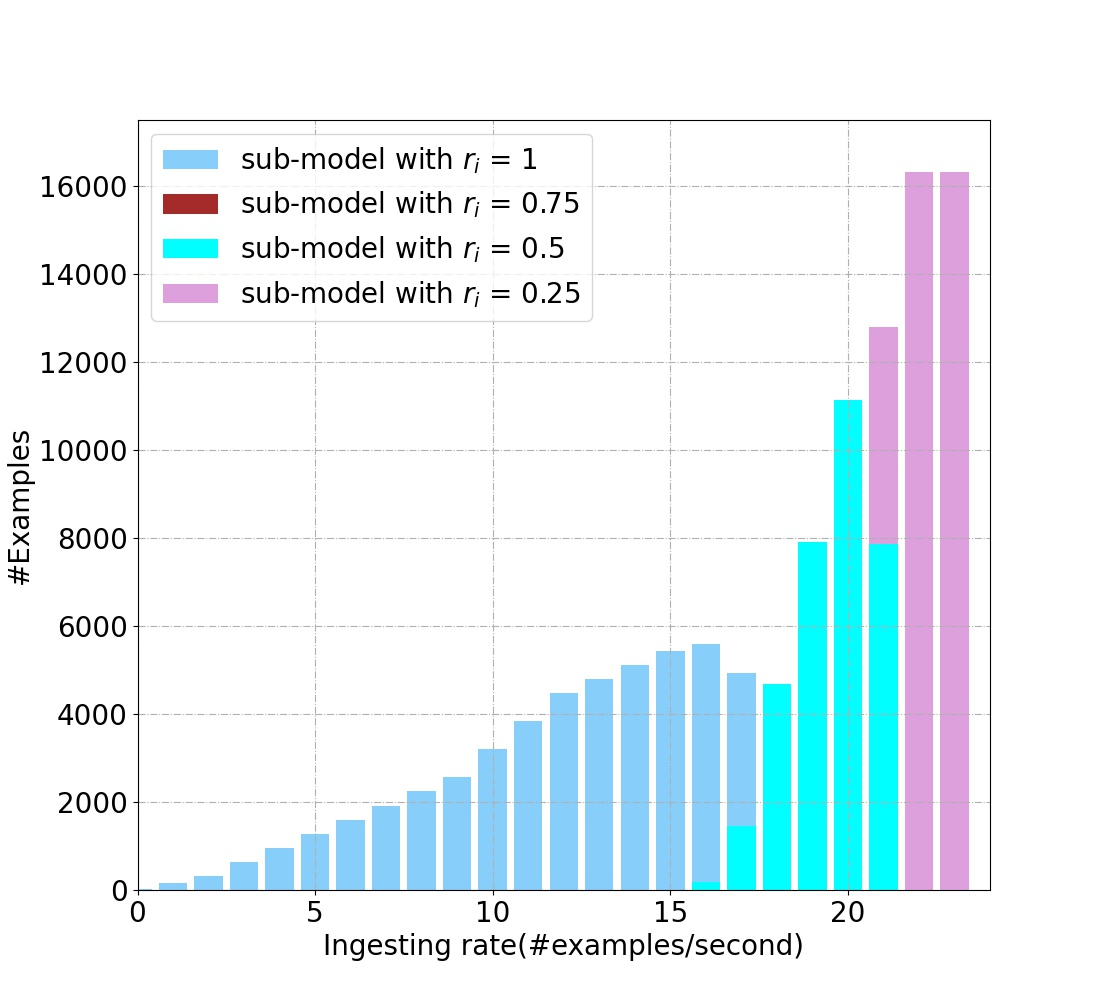
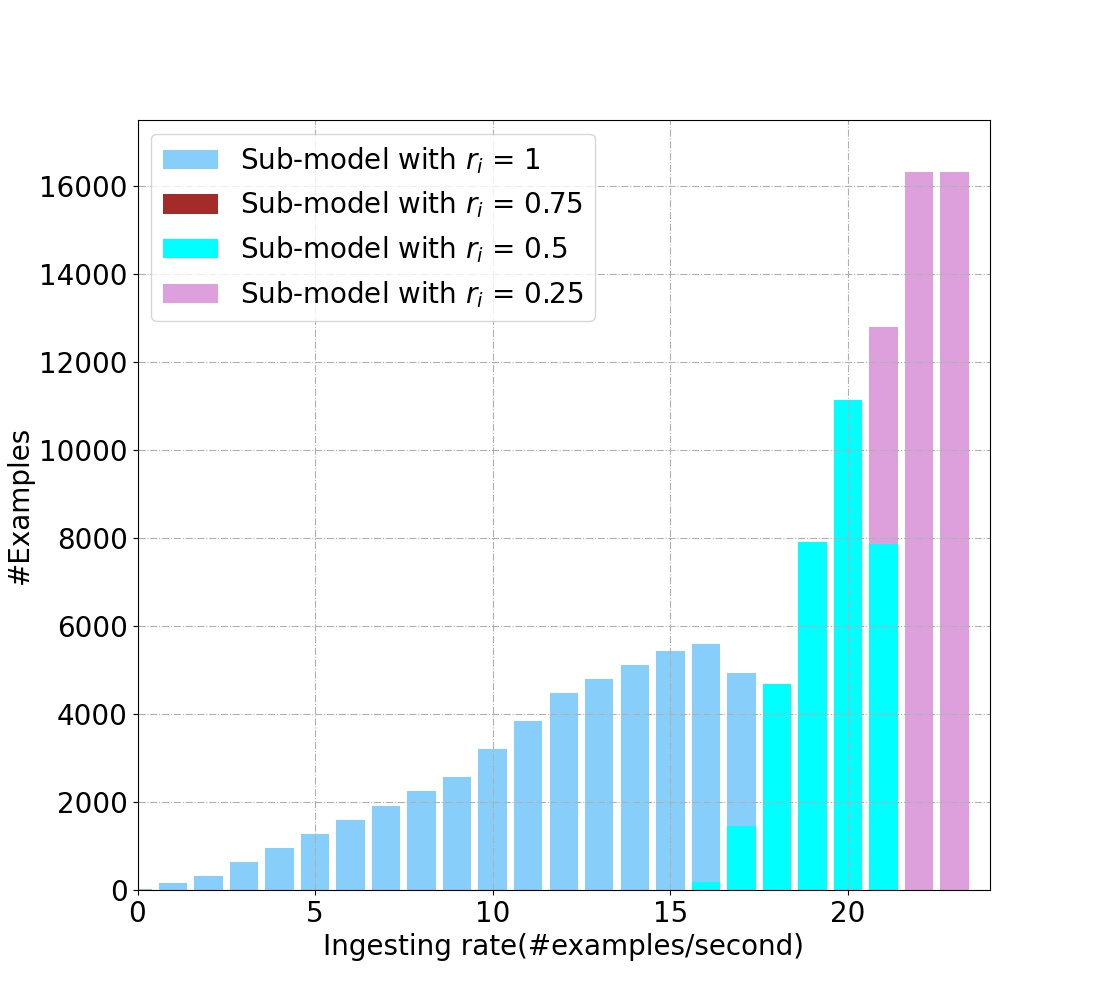
update col num

Changed region(s): [[0.2164, 0.124, 0.4327, 0.31], [0.4636, 0.155, 0.5564, 0.31]]

diff --git a/singa_easy/modules/mod_modelslicing/experiments/real_experiments/batchsize32_warmup/throughput_plot.py b/singa_easy/modules/mod_modelslicing/experiments/real_experiments/batchsize32_warmup/throughput_plot.py
@@ -43,7 +43,7 @@ def drawBasic(tlist, x, slicerate):
 
      for k in range(len(tlist)):
 
-          label.append('sub-model with $r_i$ = ' + str(slicerate[k]))
+          label.append('Sub-model with $r_i$ = ' + str(slicerate[k]))
 
           tmp = []
           for i in range(len(x)):
@@ -72,22 +72,23 @@ colors = ['blue', 'brown', 'aqua', 'green']
 for i in range(len(y)):
      ax.plot(x, y[i], line_sym[i], marker=pot_sym[i], ms=10, label=label[i], linewidth=2, color=colors[i])
 
-y_sche = [709.2198581560284, 709.2198581560284, 709.2198581560284, 709.2198581560284, 709.2198581560284, 709.2198581560284, 709.2198581560283, 709.2198581560284, 709.2198581560284, 709.2198581560284, 709.2198581560283, 709.2198581560284, 709.2198581560284, 709.2198581560284, 709.2198581560284, 709.2198581560284, 720.0180004500112, 800.0100001250015, 1000.0250006250155, 1200.0450016875632, 1400.0017500021875, 1600.0240003600054, 1600.0240003600054, 2040.760203801019, 2040.760203801019, 2040.760203801019, 2040.760203801019, 2040.760203801019, 2040.760203801019, 2040.760203801019]
 
-y_sche1 = [d[i]-random.randrange(-50,30) if x[i]<200*32 else 0 for i in range(len(x))]
-y_sche2 = [y_sche[i] if x[i]>=200*32 and x[i]<400*32 else 0 for i in range(len(x))]
+y_idealy = [709.2198581560284, 709.2198581560284, 709.2198581560284, 709.2198581560284, 709.2198581560284, 709.2198581560284, 709.2198581560283, 709.2198581560284, 709.2198581560284, 709.2198581560284, 709.2198581560283, 709.2198581560284, 709.2198581560284, 709.2198581560284, 709.2198581560284, 709.2198581560284, 720.0180004500112, 800.0100001250015, 1000.0250006250155, 1200.0450016875632, 1400.0017500021875, 1600.0240003600054, 1600.0240003600054, 2040.760203801019, 2040.760203801019, 2040.760203801019, 2040.760203801019, 2040.760203801019, 2040.760203801019, 2040.760203801019]
+# y_sche1 = [d[i]-random.randrange(-50,30) if x[i]<200*32 else 0 for i in range(len(x))]
+# y_sche2 = [y_sche[i] if x[i]>=200*32 and x[i]<400*32 else 0 for i in range(len(x))]
+# y_sche3 = [b[i]-random.randrange(-50,50) if x[i]>=400*32 and x[i]<550*32 else 0 for i in range(len(x))]
+# y_sche4 = [a[i]-random.randrange(-50,50) if x[i]>=550*32 else 0 for i in range(len(x))]
+# y_sche1 = numpy.array(y_sche1)
+# y_sche2 = numpy.array(y_sche2)
+# y_sche3 = numpy.array(y_sche3)
+# y_sche4 = numpy.array(y_sche4)
 
-y_sche3 = [b[i]-random.randrange(-50,50) if x[i]>=400*32 and x[i]<550*32 else 0 for i in range(len(x))]
-y_sche4 = [a[i]-random.randrange(-50,50) if x[i]>=550*32 else 0 for i in range(len(x))]
+# y_schef = y_sche1+y_sche2+y_sche3+y_sche4
+# y_schef[20] += 100
 
-y_sche1 = numpy.array(y_sche1)
-y_sche2 = numpy.array(y_sche2)
-y_sche3 = numpy.array(y_sche3)
-y_sche4 = numpy.array(y_sche4)
-
-y_schef = y_sche1+y_sche2+y_sche3+y_sche4
-y_schef[20] += 100
-ax.plot(x, y_schef, "--", marker='*', ms=15, label="combination of sub-models", linewidth=4)
+y_real_experiment = [633.0488366910487, 660.2020663739888, 696.9070444809888, 413.58714568077846, 757.9607054411246, 767.1975325229297, 763.8781468089422, 763.4920521873797, 643.6349107329457, 767.1107790111308, 665.6662151396764, 774.8611271250163, 763.3099205024894, 710.7785972349673, 779.1044616704534, 770.164707197363, 820.9722173161322, 865.2086862684831, 1081.8927113194084, 1339.7172773808425, 1427.7056211403021, 1748.4424234241985, 1974.104147038498, 2159.880743685082, 2166.387515185857, 1968.3063635706058, 2153.703896139617, 2276.373651213354, 2207.590246106145, 2207.8315041726605]
+ax.plot(x, y_real_experiment, "--", marker='*', ms=15, label="Combination of sub-models", linewidth=4)
+ax.plot(x, y_idealy, "--",label="Theoretical value", linewidth=4)
 
 
 plt.legend(fontsize=15)

diff --git a/singa_easy/modules/mod_modelslicing/experiments/real_experiments/batchsize32_warmup/latency.py b/singa_easy/modules/mod_modelslicing/experiments/real_experiments/batchsize32_warmup/latency.py
@@ -44,7 +44,7 @@ def drawBasic(tlist, x, slicerate):
 
      for k in range(len(tlist)):
 
-          label.append('sub-model with $r_i$ = ' + str(slicerate[k]))
+          label.append('Sub-model with $r_i$ = ' + str(slicerate[k]))
 
           tmp = []
           for i in range(len(x)):
@@ -74,16 +74,17 @@ for i in range(len(y)):
      ax.plot(x, y_i, line_sym[i], marker=pot_sym[i], ms=10, label=label[i], linewidth=2,  color=colors[i])
 
 
-# ysch = [0.04512, 0.2256, 0.4512, 0.9024, 1.3536, 1.8048, 2.2560000000000002, 2.7072, 3.1584, 3.6096, 4.5120000000000005, 5.4144, 6.3168, 6.768, 7.2192, 7.6704, 7.9998000000000005, 7.9999, 7.9998000000000005, 7.999700000000001, 7.99999, 7.99988, 7.99988,  7.9999, 9.40822, 10.192219999999999, 10.97622, 11.76022, 12.54422, 15.680219999999998]
+y_idealy = [0.04512, 0.2256, 0.4512, 0.9024, 1.3536, 1.8048, 2.2560000000000002, 2.7072, 3.1584, 3.6096, 4.5120000000000005, 5.4144, 6.3168, 6.768, 7.2192, 7.6704, 7.9998000000000005, 7.9999, 7.9998000000000005, 7.999700000000001, 7.99999, 7.99988, 7.99988,  7.9999, 9.40822, 10.192219999999999, 10.97622, 11.76022, 12.54422, 15.680219999999998]
 # ysch = [a[i]/1000+random.randrange(-5, 5)*0.1 if (x[i]>17900) else ysch[i] for i in range(len(x))]
 
-ysch = [52.309696197509766, 252.88585662841797, 1004.57763671875, 2156.1644706726074, 2321.0006675720215, 3774.912515640259, 4888.241441726685, 4505.841302871704, 4818.913396835327, 5106.131673812866, 5913.318235397339, 5971.0015296936035, 7591.721569061279, 7845.034631729126, 8520.591386795044, 9014.306182861328, 9163.452638626099, 9981.552284240723, 9871.093117713928, 10668.787943840027, 8046.434962272644, 9565.402959823608, 9565.402959823608, 8661.490100860596, 8509.212201595306, 7205.075839519501, 8496.601287841797, 8769.272347450256, 8567.164212226868, 7254.009556770325]
-ysch = [ele/1000 for ele in ysch]
+y_real_experiment = [50.54902267456055, 242.35004425048828, 459.1717109680176, 1547.4368743896484, 1266.5564231872559, 1668.409954071045, 2094.574909210205, 2514.7609519958496, 3480.23384475708, 3337.1972732543945, 4807.21407699585, 4955.72673034668, 5869.175651550293, 6753.157760620117, 6571.647644042969, 7063.424160003662, 7263.424160003662, 7397.05934715271, 7394.448558807373, 7165.690972328186, 7844.754432678223, 7320.80154800415, 7294.447976112366, 8148.598042488098, 8862.68032169342, 10567.460627555847, 10400.686946868896, 10543.084606170654, 11596.354914665222, 14493.859671592712]
+y_real_experiment = [ele/1000 for ele in y_real_experiment]
 
-ax.plot(x, ysch, "--", marker='*', ms=15, label="combination of sub-models", linewidth=4)
+ax.plot(x, y_real_experiment, "--", marker='*', ms=15, label="Combination of sub-models", linewidth=4)
+ax.plot(x, y_idealy, "--", label="Theoretical value", linewidth=4)
 
 
-plt.hlines(8.1, 0, 85000, label="deadline constrain=8s", linewidth=4, color="red")
+plt.hlines(8.1, 0, 85000, label="Deadline constrain=8s", linewidth=4, color="red")
 #
 plt.legend(fontsize=15)
 plt.xticks(fontsize=20)

diff --git a/singa_easy/modules/mod_modelslicing/experiments/real_experiments/batchsize32_warmup/effitive_accuracy_plot.py b/singa_easy/modules/mod_modelslicing/experiments/real_experiments/batchsize32_warmup/effitive_accuracy_plot.py
@@ -15,7 +15,7 @@ def drawBasic(plist, tlist, x, slicerate):
           interval1 = [plist[k] if (ele/8 > 1/tlist[k]) else 0 for ele in x]
           y1 = interval0 + ((1/tlist[k]) / (x/8)) * interval1
           y.append(y1)
-          label.append('sub-model with $r_i$ = ' + str(slicerate[k]) + ", $p_i$ = " + str(100*plist[k])[:5])
+          label.append('Sub-model with $r_i$ = ' + str(slicerate[k]) + ", $p_i$ = " + str(100*plist[k])[:5])
 
           tmp = []
           for x_ in x[10:]:
@@ -53,14 +53,14 @@ for k in range(len(pots)):
 
 
 ySch = [0.7937, 0.7937, 0.7937, 0.7937, 0.7937, 0.7937, 0.7937, 0.7937, 0.7937, 0.7937, 0.7937, 0.7937, 0.7937, 0.7937, 0.7937, 0.7937, 0.7911534375, 0.774429546875, 0.744321275, 0.7242490937500001, 0.7099126607142857, 0.6869111562500001, 0.6869111562500001, 0.6040653068181817, 0.5537265312499999, 0.5111321826923078, 0.4746227410714286, 0.44298122500000003, 0.4152948984375, 0.33223591874999997]
-ax.plot(x, ySch, "--", marker='*', ms=12, label="combination of sub-models", linewidth=2)
+ax.plot(x, ySch, "--", marker='*', ms=12, label="Combination of sub-models", linewidth=2)
 
 
 plt.legend(fontsize=15)
 plt.xticks(fontsize=20)
 plt.yticks(fontsize=20)
 ax.set_xlabel('$W_{exp}=N/D$ (# examples / deadline constraint)', fontsize=20)
-ax.set_ylabel('effective accuracy %', fontsize=20)
+ax.set_ylabel('Effective accuracy %', fontsize=20)
 plt.grid(linestyle='-.')
 plt.savefig('./effective accuracy.jpg')
 

diff --git a/singa_easy/modules/mod_modelslicing/experiments/real_experiments/batchsize32_warmup/submodel_propertion.py b/singa_easy/modules/mod_modelslicing/experiments/real_experiments/batchsize32_warmup/submodel_propertion.py
@@ -32,10 +32,10 @@ for key in scheduler_map:
 
 
 colors = ['lightskyblue', 'brown', 'aqua', 'plum']
-ax.bar(range(len(y100)), y100, label='sub-model with $r_i$ = 1', tick_label=name_list, fc=colors[0])
-ax.bar(range(len(y75)), y75, bottom=y100, label='sub-model with $r_i$ = 0.75', tick_label=name_list, fc=colors[1])
-ax.bar(range(len(y5)), y5, bottom=y75, label='sub-model with $r_i$ = 0.5', tick_label=name_list, fc=colors[2])
-ax.bar(range(len(y025)), y025, bottom=y5, label='sub-model with $r_i$ = 0.25', fc=colors[3])
+ax.bar(range(len(y100)), y100, label='Sub-model with $r_i$ = 1', tick_label=name_list, fc=colors[0])
+ax.bar(range(len(y75)), y75, bottom=y100, label='Sub-model with $r_i$ = 0.75', tick_label=name_list, fc=colors[1])
+ax.bar(range(len(y5)), y5, bottom=y75, label='Sub-model with $r_i$ = 0.5', tick_label=name_list, fc=colors[2])
+ax.bar(range(len(y025)), y025, bottom=y5, label='Sub-model with $r_i$ = 0.25', fc=colors[3])
 
 
 plt.legend(fontsize=20)

diff --git a/singa_easy/modules/mod_modelslicing/experiments/ideal_effitive_accuracy_plot.py b/singa_easy/modules/mod_modelslicing/experiments/ideal_effitive_accuracy_plot.py
@@ -41,12 +41,12 @@ y4 = interval01 + \
 plt.xlim((0, 1.2))
 plt.ylim((0, 1))
 plt.xlabel('$W_{exp}=N/D$ (# examples / deadline constraint)', fontsize=15)
-plt.ylabel('effective accuracy %', fontsize=15)
+plt.ylabel('Effective accuracy %', fontsize=15)
 
 
-plt.plot(x, y1, label='sub-model with accuracy 0.95')
-plt.plot(x, y2, label='sub-model with accuracy 0.8')
-plt.plot(x, y3, label='sub-model with accuracy 0.78')
+plt.plot(x, y1, label='Sub-model with accuracy 0.95')
+plt.plot(x, y2, label='Sub-model with accuracy 0.8')
+plt.plot(x, y3, label='Sub-model with accuracy 0.78')
 # plt.plot(x, y4, label='list4')
 
 # 画点和线

diff --git a/singa_easy/modules/mod_modelslicing/experiments/real_experiments/batchsize32_warmup/average_time.py b/singa_easy/modules/mod_modelslicing/experiments/real_experiments/batchsize32_warmup/average_time.py
@@ -44,7 +44,7 @@ def drawBasic(tlist, x, slicerate):
 
      for k in range(len(tlist)):
 
-          label.append('sub-model with $r_i$ = ' + str(slicerate[k]))
+          label.append('Sub-model with $r_i$ = ' + str(slicerate[k]))
 
           tmp = []
           for i in range(len(x)):
